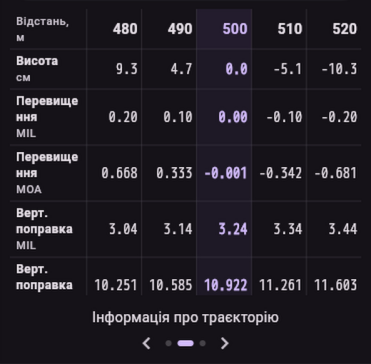
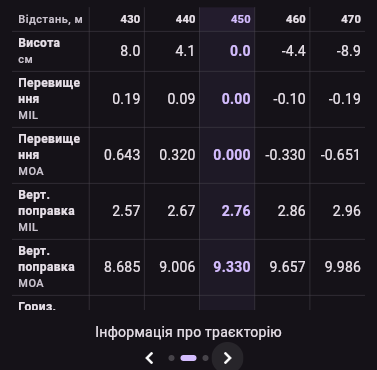
docs(help): rewrite the Home and first-run topics, refresh Home screenshots (0012)
Claude-Session: https://claude.ai/code/session_01YaKPhinh6z3mKcsTpjePCU

diff --git a/assets/markdown/uk/homeScreen.md b/assets/markdown/uk/homeScreen.md
@@ -2,42 +2,53 @@
 
 ![Головний екран](resource:assets/markdown/uk/homeScreen_overview.png)
 
-Головний екран — основне робоче місце. Звідси ви вводите умови стрільби та отримуєте готові поправки для прицілу.
+Головний екран — ваше основне робоче місце. Тут ви вводите умови стрільби й одразу отримуєте готові поправки для прицілу.
 
 ---
 
-### Профіль та набій
+### Панель профілю
 
-![Вибір профілю](resource:assets/markdown/homeScreen_profile.png)
+![Панель профілю](resource:assets/markdown/uk/homeScreen_profile.png)
 
-- **Кнопка профілю** — відображає назву поточного профілю. Натисніть, щоб перейти до списку профілів і обрати інший.
-- **Іконка набою** — швидкий перехід до редагування поточного набою.
+- **Кнопка профілю** (назва та **…**) — показує активний профіль. Натисніть, щоб відкрити екран **Профілі**, де можна змінити профіль або відредагувати зброю, набій і приціл.
+- **Кнопка набою** (іконка ракети, праворуч) — відкриває редактор поточного набою. Показується, коли профіль заповнений.
 
----
-
-### Умови середовища
-
-![Умови середовища](resource:assets/markdown/uk/homeScreen_sideControls.png)
-
-По боках від індикатора вітру відображаються поточні атмосферні умови:
-
-- **Температура** та **висота над рівнем моря** — ліва колонка
-- **Вологість** та **атмосферний тиск** — права колонка
-
-Ці значення редагуються на екрані **Умови**. Кнопка **i** (ліворуч) відкриває деталі пострілу, кнопка **?** (праворуч) — цей довідник.
+Під панеллю рядок із назвою набою, початковою швидкістю, моделлю опору, балістичним коефіцієнтом і гіроскопічною стабільністю (ФГС) коротко описує поточне налаштування.
 
 ---
 
-### Індикатор вітру
+### Умови навколишнього середовища
+
+![Умови навколишнього середовища](resource:assets/markdown/uk/homeScreen_sideControls.png)
+
+Поточні атмосферні умови відображаються по обидва боки від індикатора вітру:
+
+- **Температура** і **висота** — ліва колонка
+- **Вологість** і **атмосферний тиск** — права колонка
+
+Ці значення редагуються на екрані **Умови**.
+
+Чотири круглі кнопки біля індикатора вітру:
+
+| Кнопка | Дія |
+|---|---|
+| **i** (вгорі ліворуч) | Відкриває **Інформацію про постріл** |
+| **Нотатки** (внизу ліворуч) | Нотатки — поки що не доступно |
+| **?** (вгорі праворуч) | Відкриває цю довідку |
+| **…** (внизу праворуч) | Інші інструменти — поки що не доступно |
+
+---
+
+### Індикатор напрямку вітру
 
 ![Індикатор вітру](resource:assets/markdown/uk/homeScreen_wind.png)
 
-Кругова шкала для встановлення **напрямку вітру**:
+Круговий циферблат для встановлення **напрямку вітру**:
 
-- **Перетягніть** стрілку — або **проведіть** по колу — щоб змінити напрямок.
-- **Двічі торкніться** центру, щоб скинути напрямок до нуля.
-- **Натисніть на градуси** у центрі, щоб ввести точне значення вручну.
-- Напрямок відображається одночасно у **градусах** (0–360°) та у **годинниковому форматі** (наприклад, 03:00).
+- **Перетягніть** стрілку або **проведіть** пальцем по колу, щоб змінити напрямок.
+- **Двічі торкніться** циферблата, щоб скинути напрямок до нуля.
+- **Торкніться градусів** у центрі, щоб ввести точне значення.
+- Напрямок одночасно показується в **градусах** (0–360°) і в **годинниковому форматі** (наприклад, 03:00).
 
 ---
 
@@ -45,66 +56,68 @@
 
 ![Швидкі дії](resource:assets/markdown/uk/homeScreen_quickActions.png)
 
-Три кнопки під індикатором вітру для найчастіших змін:
+Три кнопки під індикатором вітру для найчастіших налаштувань:
 
-| Кнопка | Дія | Довге натискання |
+| Кнопка | Натискання | Довге натискання |
 |---|---|---|
 | **Швидкість вітру** | Відкриває введення значення | Скидає до 0 |
-| **Кут огляду** | Відкриває введення значення | Скидає до 0 |
-| **Дистанція** | Відкриває введення значення | — |
+| **Кут цілі** | Відкриває введення значення | Скидає до 0 |
+| **Відстань до цілі** | Відкриває введення значення | — |
 
 ---
 
 ### Сторінки результатів
 
-Нижня частина екрана — карусель із трьох сторінок. Перемикайтесь свайпом або натисканням на крапки внизу.
+Нижня частина — карусель із трьох сторінок. Перемикайте їх свайпом, стрілками або крапками внизу.
 
 #### Поправки
 
 ![Поправки](resource:assets/markdown/uk/homeScreen_pageHoldovers.png)
 
-Відображає поправки прицілу для поточних умов:
+Показує сітку прицілу та поправки для поточних умов:
 
-- **Elevation** — вертикальна поправка (вгору/вниз)
-- **Windage** — горизонтальна поправка (ліво/право)
+- **Винос по вертикалі** — вертикальна поправка (стрілка вгору/вниз)
+- **Винос по горизонталі** — горизонтальна поправка (стрілка вліво/вправо)
 
-Значення показуються в одиницях, обраних у налаштуваннях (MIL, MOA, клік тощо). Натисніть на зображення прицілу, щоб відкрити його в повноекранному режимі.
+Значення відображаються в одиницях, обраних у **Налаштування → Відображення поправок** (MIL, MOA, см/100м, кліки тощо). **Торкніться сітки**, щоб відкрити її на весь екран. **Утримуйте** значення, щоб одразу перейти до налаштувань відображення поправок.
 
-#### Таблиця траєкторії
+#### Інформація про траєкторію
 
-![Таблиця траєкторії](resource:assets/markdown/uk/homeScreen_pageTable.png)
+![Інформація про траєкторію](resource:assets/markdown/uk/homeScreen_pageTable.png)
 
-Детальна таблиця балістичних даних по дистанціях: швидкість, енергія, знесення вітром, час польоту та ін.
+Компактна таблиця дистанцій навколо цілі (колонка цілі виділена): висота, перевищення, верт. поправка, вітер і швидкість, із поправками в обраних вами одиницях.
+
+Повну таблицю дивіться на екрані **Таблиці**.
 
 #### Графік траєкторії
 
 ![Графік траєкторії](resource:assets/markdown/uk/homeScreen_pageChart.png)
 
-Візуальний графік траєкторії кулі. Дозволяє швидко оцінити поведінку набою на різних дистанціях.
+Угорі: відстань до цілі, швидкість, енергія, час польоту, висота, вертикальна й горизонтальна поправка та число Маха біля цілі. Нижче: висота кулі за дистанцією (суцільна лінія), її швидкість (зелений пунктир) і вісь прицілу (пунктир). Точку переходу на дозвук можна позначити (див. **Налаштування → Відображати перехід на дозвук**).
 
 ---
 
-### Деталі пострілу
+### Інформація про постріл
 
-![Деталі пострілу](resource:assets/markdown/uk/homeScreen_shotInfo.png)
+![Інформація про постріл](resource:assets/markdown/uk/homeScreen_shotInfo.png)
 
-Відкривається кнопкою **i** зліва на головному екрані. Показує розраховані балістичні значення для поточних умов і дистанції.
+Відкривається кнопкою **i**. Показує розраховані балістичні значення для поточних умов і дистанції до цілі.
 
 **Швидкість**
-- **Поточна МШ** — початкова швидкість кулі при поточній температурі пороху
-- **МШ при нульовці** — початкова швидкість при умовах нульовки
+- **Поточна швидкість** — початкова швидкість при поточній температурі пороху
+- **Швидкість пристрілюваної кулі** — початкова швидкість в умовах пристрілки
 - **Швидкість звуку** — для поточної атмосфери
-- **Швидкість у цілі** — залишкова швидкість кулі на заданій дистанції
+- **Швидкість біля цілі** — швидкість кулі на заданій дистанції
 
 **Енергія**
-- **У дулі** — кінетична енергія у дулі
-- **У цілі** — кінетична енергія на заданій дистанції
+- **Енергія при початковій швидкості** — кінетична енергія біля дульного зрізу
+- **Енергія біля цілі** — кінетична енергія на заданій дистанції
 
-**Гіроскопічна стабільність (ФГС)** — коефіцієнт стабільності для поточних умов. Значення нижче 1.0 вказує на можливу нестабільність кулі.
+**Гіроскопічна стабільність (ФГС)** — стабільність для поточних умов. Значення нижче 1.0 означають, що куля може не стабілізуватися.
 
 **Траєкторія**
-- **Дистанція до цілі** — відстань, що використовується для всіх розрахунків
-- **Висота апексу** — максимальний підйом кулі над лінією прицілювання
-- **Дистанція апексу** — відстань, на якій досягається апекс
-- **Знесення вітром** — горизонтальне відхилення від вітру на дистанції цілі
-- **Час польоту** — час польоту кулі до заданої дистанції
+- **Відстань до цілі** — дистанція, що використовується для всіх розрахунків
+- **Висота траєкторії** — максимальне підняття кулі над лінією прицілювання
+- **Дистанція найвищої точки траєкторії** — дистанція, на якій настає максимум
+- **Вітрозніс** — горизонтальне відхилення вітром біля цілі
+- **Час до цілі** — час польоту кулі до заданої дистанції

diff --git a/assets/markdown/en/homeScreen.md b/assets/markdown/en/homeScreen.md
@@ -6,12 +6,14 @@ The Home Screen is your main workspace. This is where you enter shooting conditi
 
 ---
 
-### Profile & Cartridge
+### Profile bar
 
-![Profile selector](resource:assets/markdown/homeScreen_profile.png)
+![Profile bar](resource:assets/markdown/en/homeScreen_profile.png)
 
-- **Profile button** — shows the current profile name. Tap to open the profile list and switch to a different one.
-- **Cartridge icon** — quick access to edit the current cartridge.
+- **Profile button** (name and **…**) — shows the active profile. Tap it to open the **Profiles** screen, where you can switch profiles or edit the weapon, cartridge and scope.
+- **Cartridge button** (rocket icon, on the right) — opens the editor of the current cartridge. Shown when the profile is complete.
+
+Below the bar, a line with the cartridge name, muzzle velocity, drag model, ballistic coefficient and gyroscopic stability (Sg) summarises the current setup.
 
 ---
 
@@ -24,7 +26,16 @@ Current atmospheric conditions are displayed on both sides of the wind indicator
 - **Temperature** and **altitude** — left column
 - **Humidity** and **atmospheric pressure** — right column
 
-These values are edited on the **Conditions** screen. The **i** button (left) opens shot details, the **?** button (right) opens this guide.
+These values are edited on the **Conditions** screen.
+
+The four round buttons next to the wind indicator:
+
+| Button | Action |
+|---|---|
+| **i** (top left) | Opens **Shot info** |
+| **Note** (bottom left) | Notes — not available yet |
+| **?** (top right) | Opens this guide |
+| **…** (bottom right) | More tools — not available yet |
 
 ---
 
@@ -35,7 +46,7 @@ These values are edited on the **Conditions** screen. The **i** button (left) op
 A circular dial for setting the **wind direction**:
 
 - **Drag** the arrow — or **swipe** along the circle — to change the direction.
-- **Double-tap** the center to reset the direction to zero.
+- **Double-tap** the dial to reset the direction to zero.
 - **Tap the degrees** in the center to enter an exact value manually.
 - Direction is shown simultaneously in **degrees** (0–360°) and **clock format** (e.g. 03:00).
 
@@ -47,48 +58,50 @@ A circular dial for setting the **wind direction**:
 
 Three buttons below the wind indicator for the most common adjustments:
 
-| Button | Action | Long press |
+| Button | Tap | Long press |
 |---|---|---|
-| **Wind Speed** | Opens value input | Resets to 0 |
-| **Look Angle** | Opens value input | Resets to 0 |
-| **Target Range** | Opens value input | — |
+| **Wind speed** | Opens value input | Resets to 0 |
+| **Look angle** | Opens value input | Resets to 0 |
+| **Target range** | Opens value input | — |
 
 ---
 
 ### Result Pages
 
-The bottom section is a carousel of three pages. Switch by swiping or tapping the dots at the bottom.
+The bottom section is a carousel of three pages. Switch by swiping or with the arrows and dots at the bottom.
 
 #### Holdovers
 
 ![Holdovers](resource:assets/markdown/en/homeScreen_pageHoldovers.png)
 
-Displays scope adjustments for the current conditions:
+Shows the reticle with the scope adjustments for the current conditions:
 
-- **Elevation** — vertical adjustment (up/down)
-- **Windage** — horizontal adjustment (left/right)
+- **Hold** — vertical adjustment (up/down arrow)
+- **Windage** — horizontal adjustment (left/right arrow)
 
-Values are shown in the units selected in settings (MIL, MOA, click, etc.). Tap the reticle image to open it in full-screen mode.
+Values are shown in the units selected in **Settings → Adjustment Display** (MIL, MOA, cm/100m, clicks, …). **Tap the reticle** to open it full-screen. **Press and hold** the values to jump straight to the Adjustment Display settings.
 
-#### Trajectory Table
+#### Trajectory info
 
-![Trajectory table](resource:assets/markdown/en/homeScreen_pageTable.png)
+![Trajectory info](resource:assets/markdown/en/homeScreen_pageTable.png)
 
-A detailed ballistic data table by distance: velocity, energy, wind drift, time of flight, and more.
+A compact table of the distances around the target range (the target column is highlighted): height, elevation, drop, wind and velocity, with the corrections in the units you selected.
 
-#### Trajectory Chart
+For the full table open the **Tables** screen.
+
+#### Trajectory chart
 
 ![Trajectory chart](resource:assets/markdown/en/homeScreen_pageChart.png)
 
-A visual chart of the bullet's trajectory. Lets you quickly assess the cartridge's behaviour at different distances.
+At the top: target range, velocity, energy, time of flight, height, drop, windage and Mach number at the target. Below: the bullet's height over distance (solid), its velocity (dashed green) and the line of sight (dashed). The point where the bullet goes subsonic can be marked (see **Settings → Show subsonic transition**).
 
 ---
 
-### Shot Details
+### Shot Info
 
-![Shot details](resource:assets/markdown/en/homeScreen_shotInfo.png)
+![Shot info](resource:assets/markdown/en/homeScreen_shotInfo.png)
 
-Opened via the **i** button on the left side of the home screen. Shows computed ballistic values for the current conditions and target range.
+Opened with the **i** button. Shows computed ballistic values for the current conditions and target range.
 
 **Velocity**
 - **Current MV** — muzzle velocity at the current powder temperature
@@ -97,14 +110,14 @@ Opened via the **i** button on the left side of the home screen. Shows computed 
 - **Velocity at target** — remaining bullet speed at the set distance
 
 **Energy**
-- **At muzzle** — kinetic energy at the muzzle
-- **At target** — kinetic energy at the set distance
+- **Energy at muzzle velocity** — kinetic energy at the muzzle
+- **Energy at target** — kinetic energy at the set distance
 
-**Gyroscopic stability (Sg)** — stability factor for the current conditions. Values below 1.0 indicate the bullet may not stabilise.
+**Gyroscopic stability factor (Sg)** — stability for the current conditions. Values below 1.0 indicate the bullet may not stabilise.
 
 **Trajectory**
 - **Target range** — the distance used for all calculations
-- **Apex height** — maximum bullet rise above the line of sight
-- **Apex distance** — distance at which the apex occurs
+- **Trajectory apex** — maximum bullet rise above the line of sight
+- **Trajectory apex distance** — distance at which the apex occurs
 - **Windage** — horizontal wind drift at the target
 - **Time to target** — bullet flight time to the set distance

diff --git a/assets/markdown/uk/firstRun.md b/assets/markdown/uk/firstRun.md
@@ -2,16 +2,20 @@
 
 ![icon](resource:assets/markdown/icon64.png)
 
-eBalistyka — балістичний калькулятор для точної стрільби. Розраховує поправки прицілу на основі вашої зброї, набою та поточних умов.
+eBalistyka — балістичний калькулятор для точної стрільби. Він розраховує поправки для прицілу на основі вашої зброї, набою та поточних умов.
 
-**Щоб почати:**
+Приклад профілю вже налаштований, тож ви одразу побачите результат.
 
-1. Створіть **профіль** — оберіть зброю та набій
-2. Задайте **умови** — температуру, вітер, висоту
+**Щоб розпочати:**
+
+1. Відкрийте екран **Профілі** (торкніться назви профілю вгорі головного екрана) і налаштуйте **свій** профіль — зброю, набій і приціл
+2. Задайте **умови** — температуру, вологість, тиск, висоту, вітер (вкладка **Умови** та швидкі кнопки на головному екрані)
 3. Зчитайте **поправки** на головному екрані
 
-Якщо виникнуть питання щодо будь-якого екрана — шукайте цю кнопку **?**:
+Коли виникнуть питання щодо будь-якого екрана, шукайте цю кнопку **?**:
 
 ![helpButton](resource:assets/markdown/helpButton.png)
 
-Влучних пострілів!
+> **Користуєтесь веб-версією?** Ваші профілі та налаштування зберігаються лише в цьому браузері. Час від часу робіть резервну копію: **Налаштування → Резервна копія → Експортувати**.
+
+Успіхів на стрільбищі!

diff --git a/assets/markdown/en/firstRun.md b/assets/markdown/en/firstRun.md
@@ -4,14 +4,18 @@
 
 eBalistyka is a ballistic calculator for precision shooting. It calculates scope adjustments based on your weapon, cartridge, and current conditions.
 
+A sample profile is already set up, so you can see a result right away.
+
 **To get started:**
 
-1. Create a **profile** — select your weapon and cartridge
-2. Set the **conditions** — temperature, wind, altitude
+1. Open the **Profiles** screen (tap the profile name at the top of Home) and set up **your** profile — weapon, cartridge and scope
+2. Set the **conditions** — temperature, humidity, pressure, altitude, wind (the **Conditions** tab and the quick buttons on Home)
 3. Read the **adjustments** on the home screen
 
 Whenever you have a question about a screen, look for this button **?**:
 
 ![helpButton](resource:assets/markdown/helpButton.png)
+
+> **Using the web version?** Your profiles and settings are stored in this browser only. Make a backup from time to time in **Settings → Backup → Export**.
 
 Good luck on the range!
